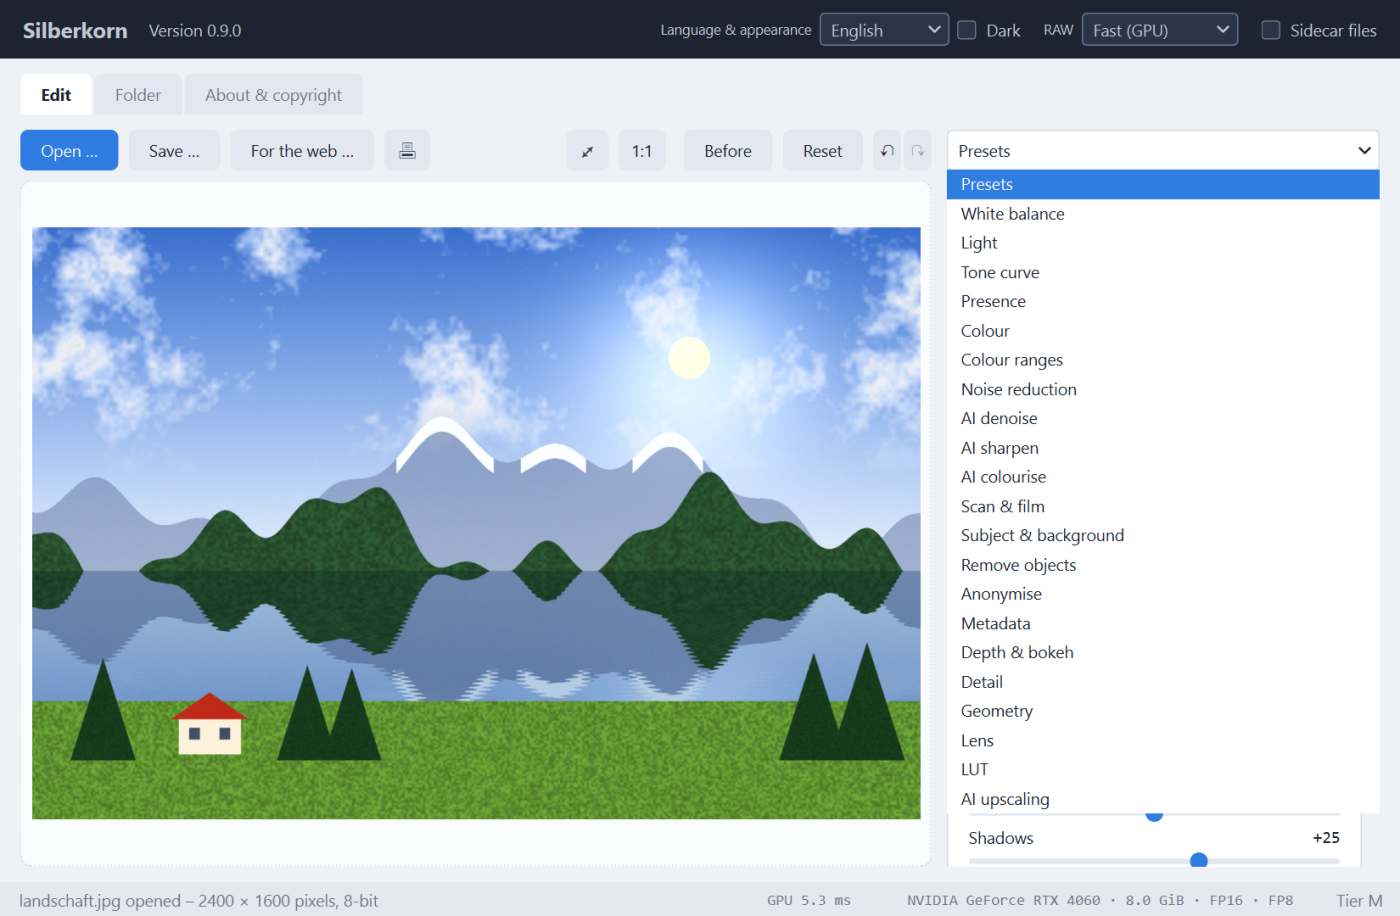
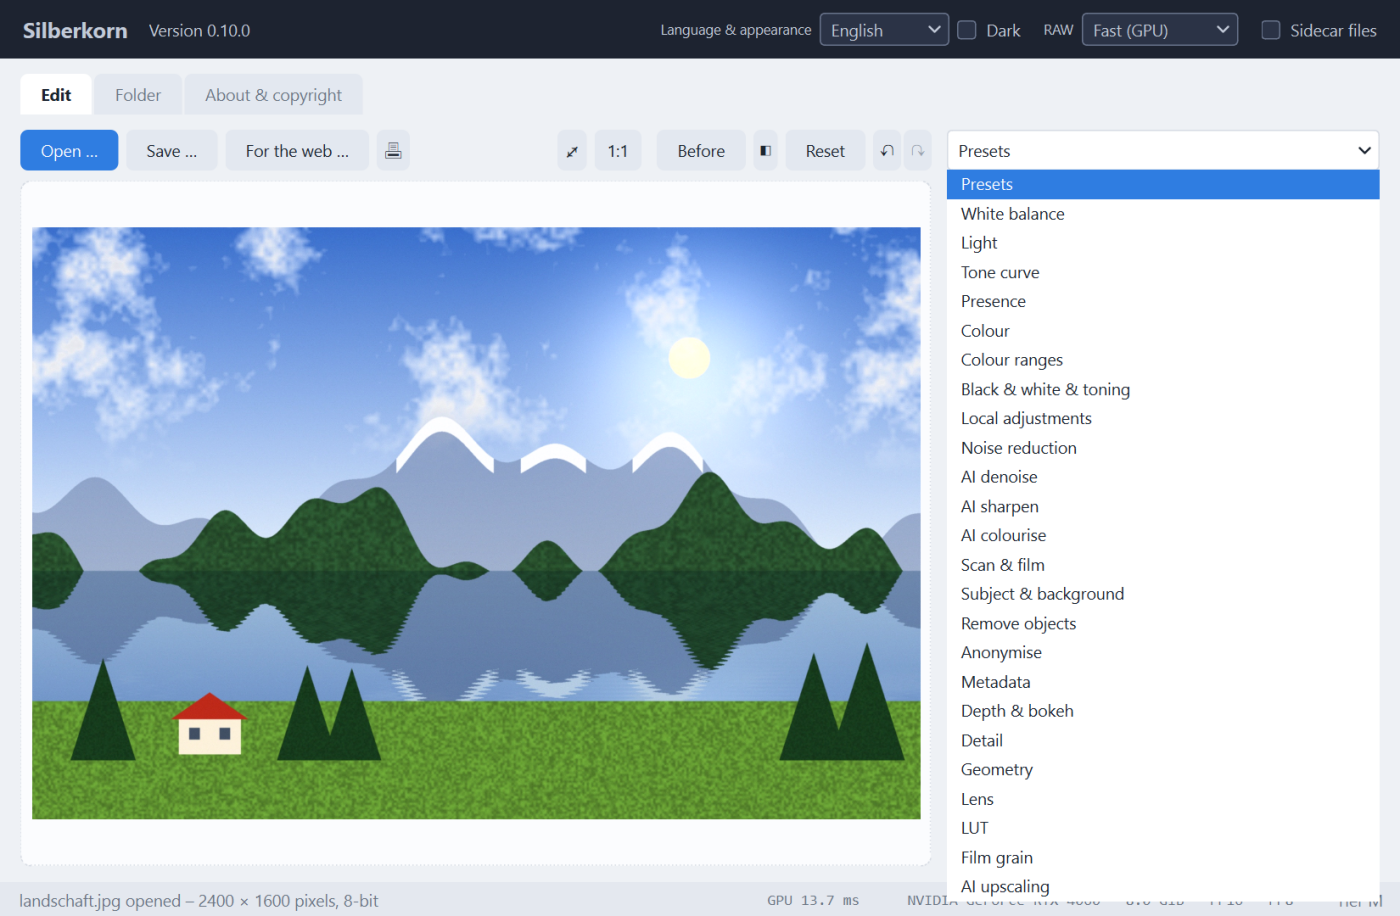
Bildschirmfotos mit Trennlinie, Histogramm und Sternen
Das Hauptfenster zeigt den Vergleich Vorher/Nachher mit Trennlinie, das
Histogramm und die neuen Automatik-Knöpfe; die Ordneransicht ist nach
Sternen sortiert, mit bewerteten Bildern, dem Overlay beim Darüberfahren
und einem abgeblendeten Ausschuss am Ende. Die Bewertungen legt das Skript
nur im temporären Beispielordner an.

diff --git a/werkzeuge/bildschirmfotos.py b/werkzeuge/bildschirmfotos.py
@@ -189,6 +189,9 @@ SERIE = [("Bergsee-01.jpg", 3, (0.2, 0.25)), ("Bergsee-02.jpg", 4, (0.35, 0.2)),
          ("Bergsee-03.jpg", 5, (0.55, 0.3)), ("Bergsee-04.jpg", 6, (0.8, 0.18)),
          ("Bergsee-05.jpg", 7, (0.65, 0.4)), ("Bergsee-06.jpg", 8, (0.45, 0.15))]
 UNTERORDNER = ("Abzüge", "Negative")
+# Bewertungen fuer die Ordneransicht: Name -> Sterne (-1 Ausschuss)
+BEWERTUNGEN = {"Bergsee-01.jpg": 5, "Bergsee-02.jpg": 4, "Bergsee-04.jpg": 3,
+               "Bergsee-05.jpg": 2, "Bergsee-06.jpg": -1}
 
 
 def serie_schreiben(ordner: str) -> str:
@@ -201,6 +204,9 @@ def serie_schreiben(ordner: str) -> str:
         bild = landschaft(600, 900, seed=seed, sonne=sonne)
         Image.fromarray((bild * 255 + 0.5).astype(np.uint8)).save(os.path.join(serie, name),
                                                                   quality=90)
+    from silberkorn import bewertung
+    for name, wert in BEWERTUNGEN.items():
+        bewertung.schreiben(os.path.join(serie, name), wert)
     shutil.copyfile(os.path.join(ordner, "negativ-rgbi.tif"),
                     os.path.join(serie, "Negativ-01.tif"))
     shutil.copyfile(os.path.join(ordner, "scannerplatte.jpg"),
@@ -276,7 +282,15 @@ def aufnehmen(sprache: str, motive: dict[str, str]):
         seite.wert_geaendert(name, wert)
     seite.zu_karte(0, weich=False)
     warten()
+    # Vergleich mit Trennlinie in der Mitte: links vorher, rechts nachher
+    seite.vergleich_knopf.setChecked(True)
+    seite.leinwand.trenner = 0.5
+    for _i in range(40):                       # die Vorher-Haelfte wird im Hintergrund gerechnet
+        warten()
+        time.sleep(0.05)
     _speichern(fenster.grab(), os.path.join(ordner, "hauptfenster.png"))
+    seite.vergleich_knopf.setChecked(False)
+    warten()
 
     # 2. Kartenauswahl aufgeklappt - die Liste ist ein eigenes Fenster, sie wird an ihrer
     # Stelle ins Fensterbild gezeichnet
@@ -347,6 +361,13 @@ def aufnehmen(sprache: str, motive: dict[str, str]):
     fenster.begleit_box.blockSignals(False)
     modell = ansicht.modell
     from silberkorn.ordner_seite import PFAD_ROLLE, ZUSTAND_ROLLE
+    # Sortierung "Nach Sternen" (die Einstellungsdatei ist abgeschirmt, nichts wird gesichert)
+    ansicht.sortierung.setCurrentIndex(ansicht.sortierung.findData("sterne"))
+    for _i in range(200):                      # bis der Hintergrunddienst die Sterne gelesen hat
+        app.processEvents()
+        if len(modell.bewertungen) >= len(BEWERTUNGEN):
+            break
+        time.sleep(0.05)
     for _i in range(600):                      # bis alle Vorschaubilder da sind, hoechstens 30 s
         app.processEvents()
         ansicht.liste.viewport().update()
@@ -359,9 +380,15 @@ def aufnehmen(sprache: str, motive: dict[str, str]):
         nummer = next(i for i in range(modell.rowCount())
                       if os.path.basename(modell.index(i).data(PFAD_ROLLE) or "") == name)
         auswahl.select(modell.index(nummer), auswahl.SelectionFlag.Select)
+    # Die Maus ueber der Kachel von Bergsee-03 (unbewertet): leere Sterne und Papierkorb
+    nummer = next(i for i in range(modell.rowCount())
+                  if os.path.basename(modell.index(i).data(PFAD_ROLLE) or "") == SERIE[2][0])
+    mitte = ansicht.liste.visualRect(modell.index(nummer)).center()
+    ansicht.liste._darueber(nummer, ansicht.liste.ziel_bei(mitte)[1])
     for _i in range(5):
         app.processEvents()
     _speichern(fenster.grab(), os.path.join(ordner, "ordneransicht.png"))
+    ansicht.liste._darueber(-1, None)
     fenster.begleit_box.blockSignals(True)
     fenster.begleit_box.setChecked(False)
     fenster.begleit_box.blockSignals(False)
